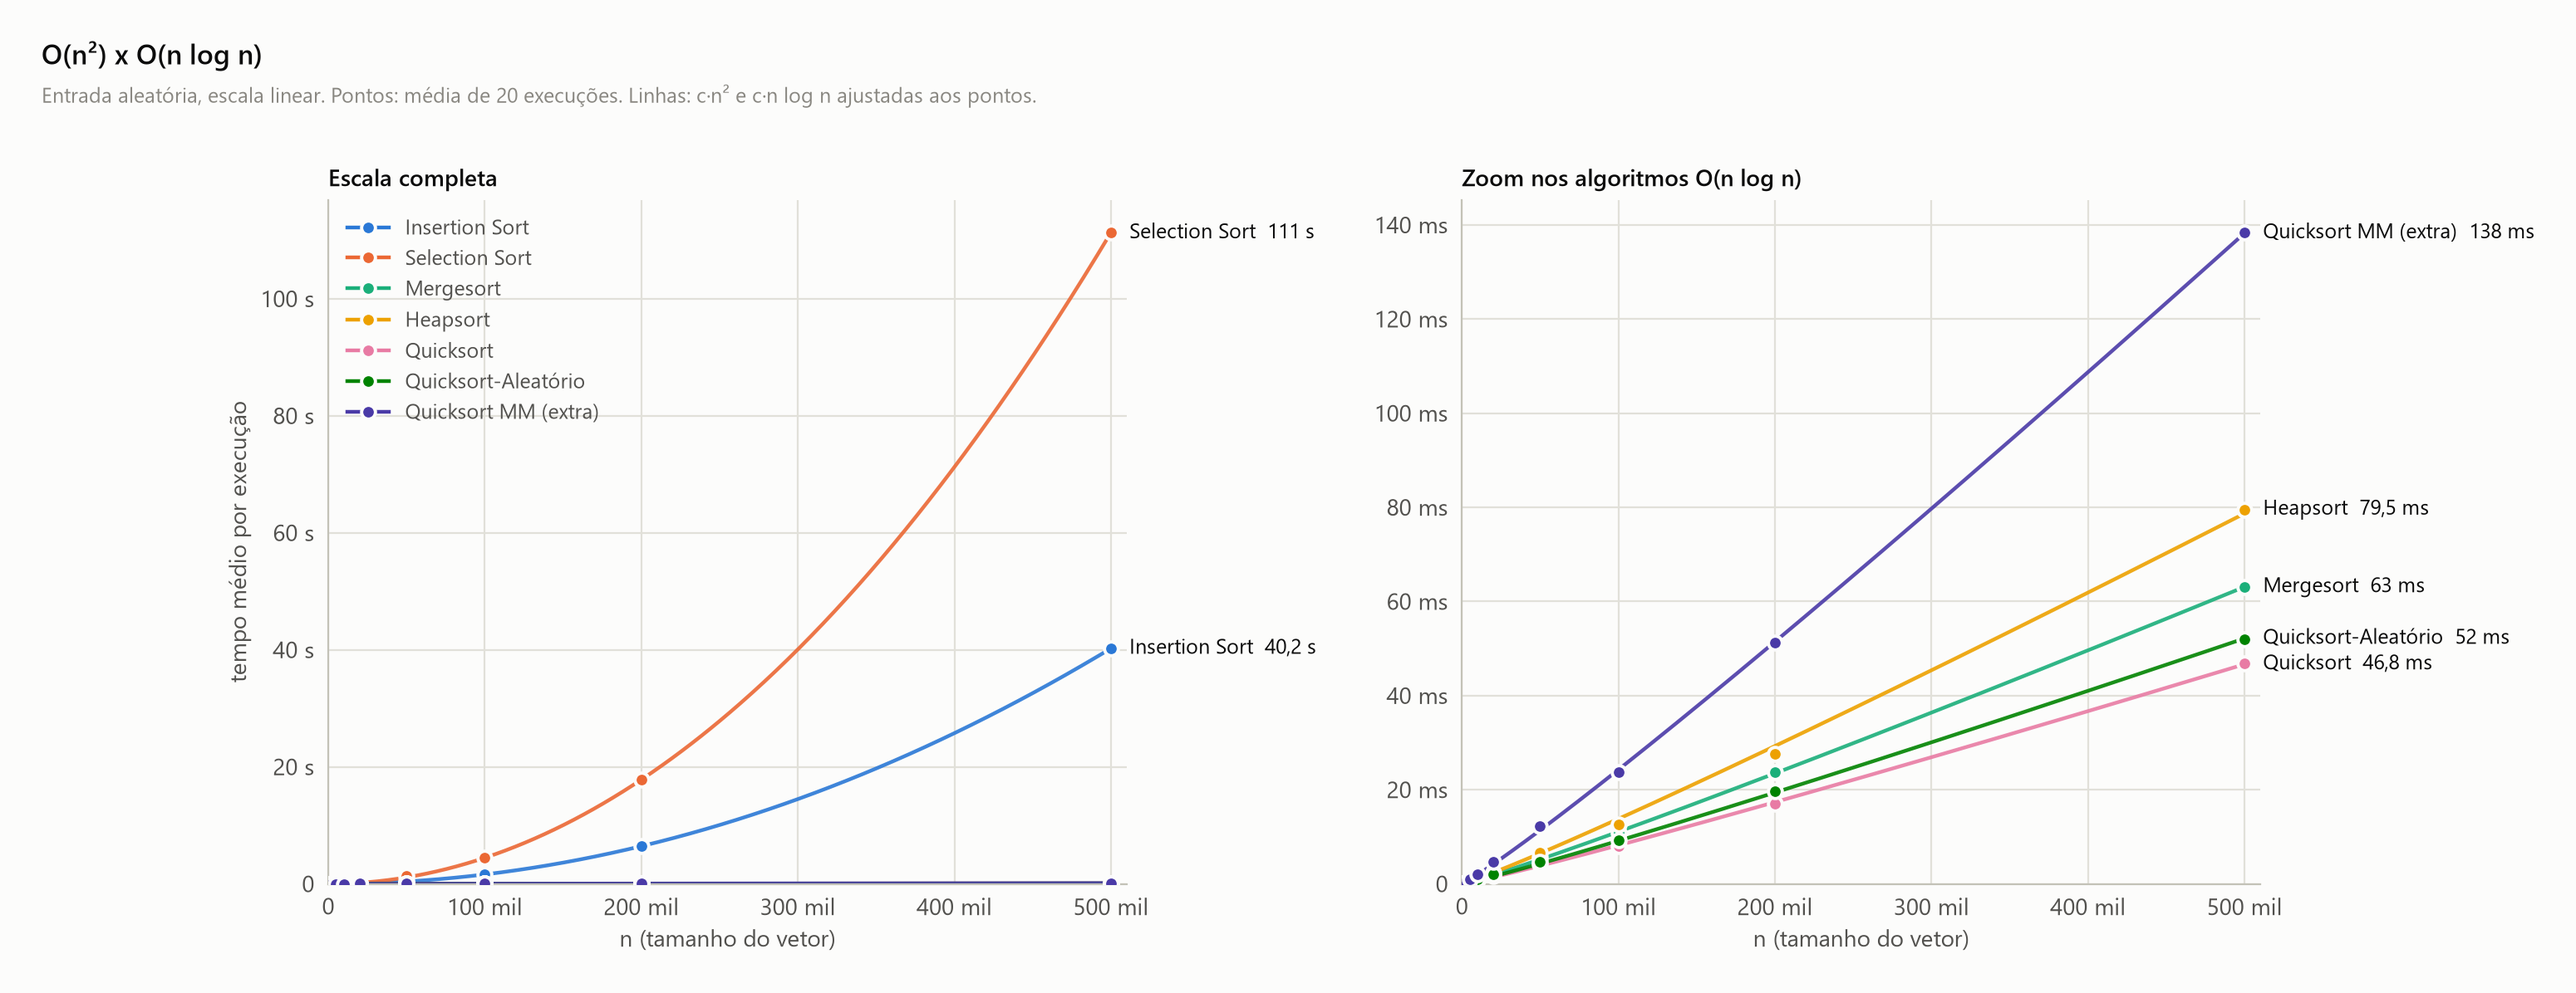
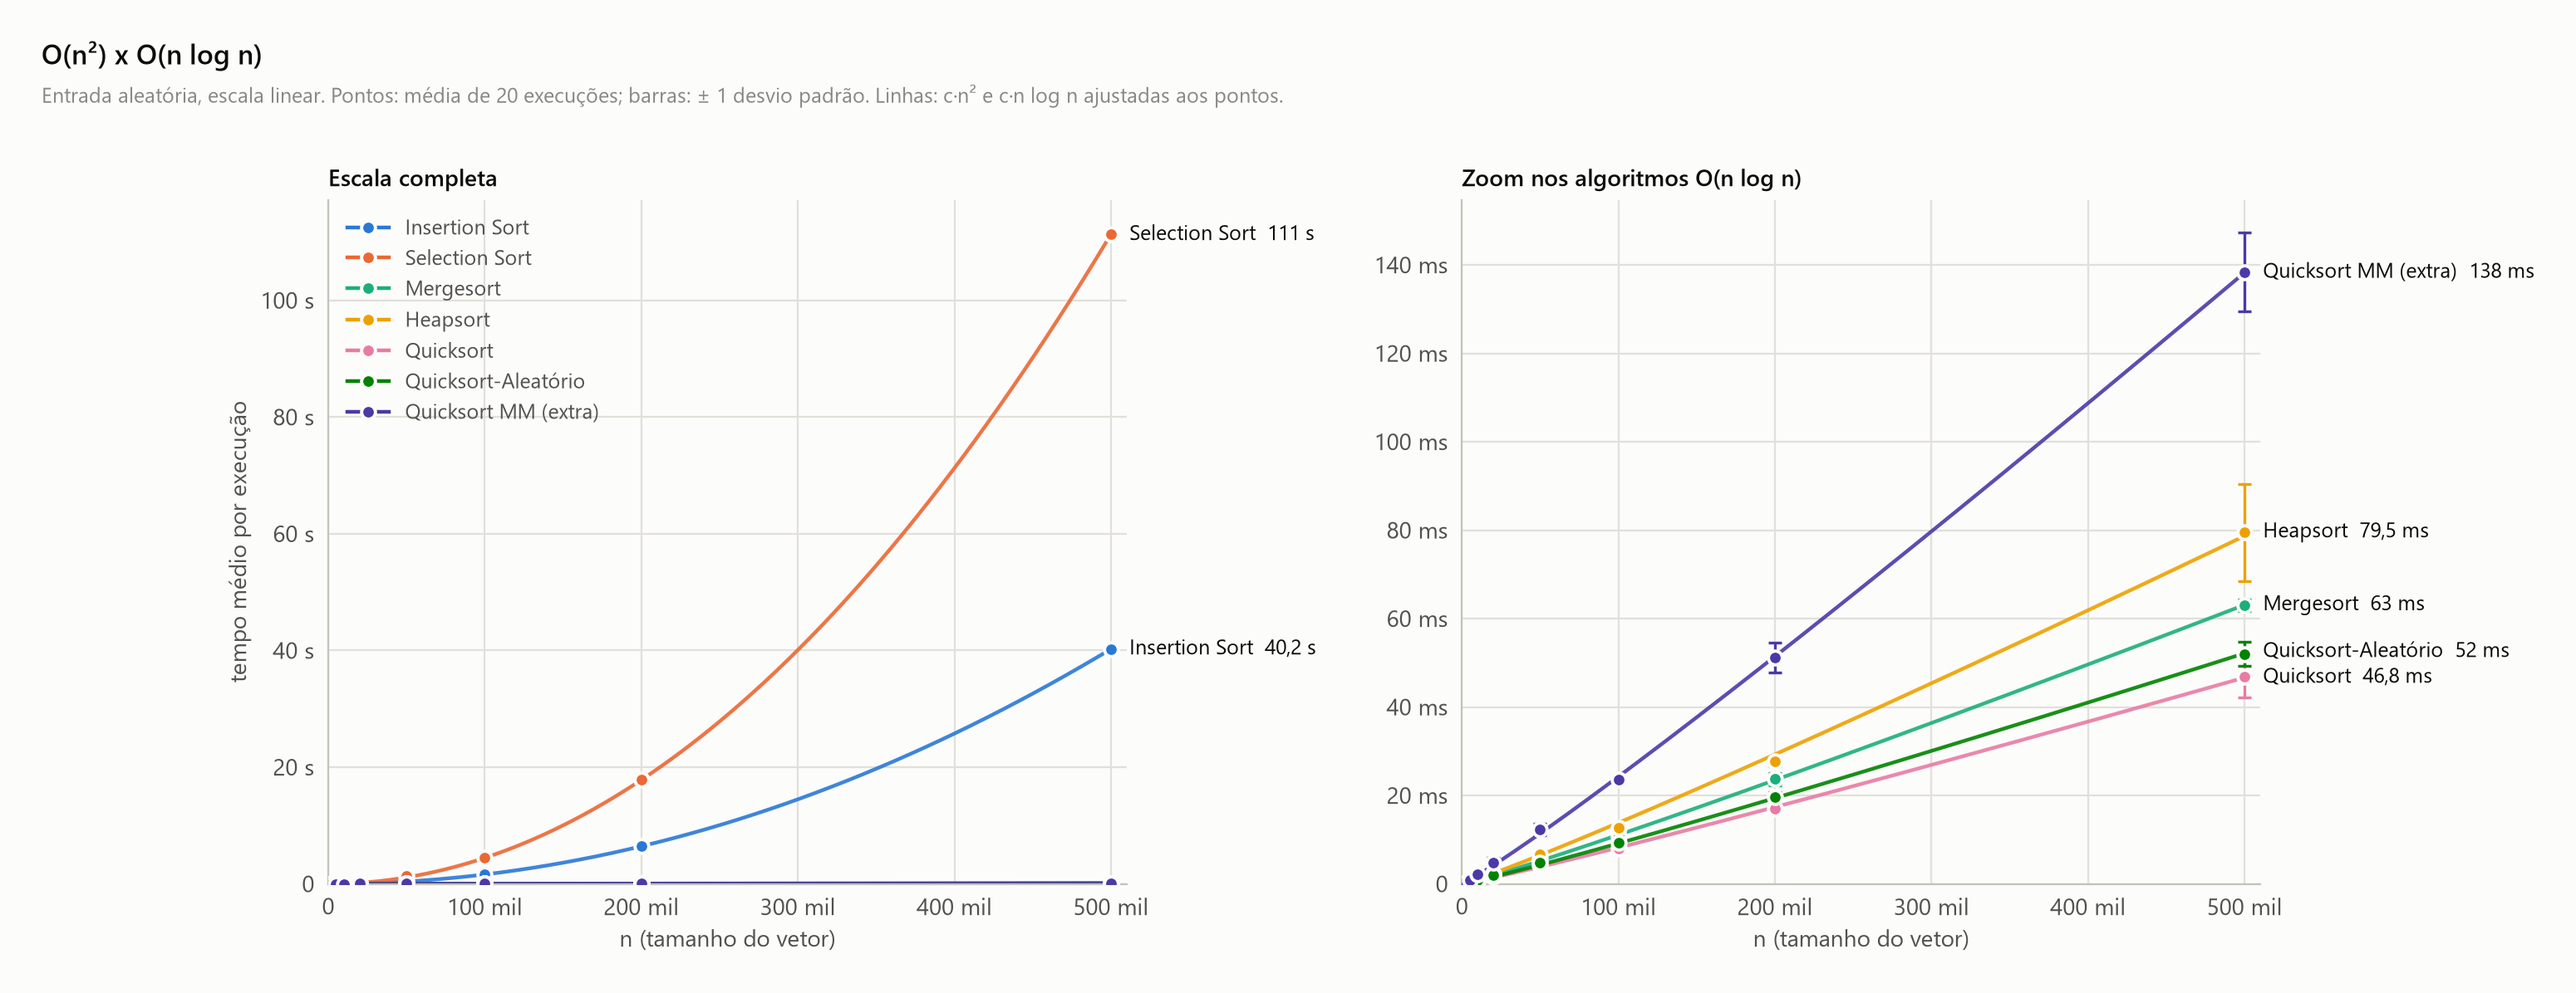
Desvio padrão de volta aos gráficos e novo gráfico de variabilidade
- Barras de ± 1 desvio padrão nos gráficos lineares (1 e 2)
- 08_variabilidade.png: coeficiente de variação por tamanho e boxplot
  das 20 execuções com n = 1 milhão
- README: lista e metodologia atualizadas

diff --git a/analise/analise.py b/analise/analise.py
@@ -202,6 +202,9 @@ def pontos_e_curva(ax, d, classe, cor, rotulo, x_max):
     c = np.sum(y * f(x)) / np.sum(f(x) ** 2)
     grade = np.linspace(max(1.0, x_max / 1000), x_max, 400)
     ax.plot(grade, c * f(grade), "-", color=cor, lw=1.6, alpha=0.9, zorder=2)
+    # barras de +-1 desvio padrao
+    ax.errorbar(x, y, yerr=d["std"].to_numpy(), fmt="none", ecolor=cor, elinewidth=1.2,
+                capsize=3, capthick=1.2, zorder=2.5)
     ax.plot(x, y, "o", color=cor, ms=6, mec=SUPERFICIE, mew=1.4, zorder=3)
     return plt.Line2D([], [], color=cor, lw=1.6, marker="o", ms=6, mec=SUPERFICIE,
                       mew=1.4, label=rotulo)
@@ -277,8 +280,8 @@ rotulos_finais(ax, itens)
 rotulos_finais(az, itens_z)
 ax.legend(handles=alcas, loc="upper left", fontsize=9)
 titulo(fig, "O(n²) x O(n log n)",
-       f"Entrada aleatória, escala linear. Pontos: média de {REP_T} execuções. "
-       "Linhas: c·n² e c·n log n ajustadas aos pontos.")
+       f"Entrada aleatória, escala linear. Pontos: média de {REP_T} execuções; "
+       "barras: ± 1 desvio padrão. Linhas: c·n² e c·n log n ajustadas aos pontos.")
 fig.subplots_adjust(top=0.82, wspace=0.42)
 salvar(fig, "01_n2_vs_nlogn.png")
 
@@ -301,8 +304,9 @@ ax.set_ylabel("tempo médio por execução")
 rotulos_finais(ax, itens)
 ax.legend(handles=alcas, loc="upper left", fontsize=9)
 titulo(fig, "Algoritmos O(n log n)",
-       f"Entrada aleatória, escala linear. Pontos: média de {REP_T} execuções. "
-       "Linhas: c·n log n ajustada aos pontos (quase reta: log n cresce devagar).")
+       f"Entrada aleatória, escala linear. Pontos: média de {REP_T} execuções; "
+       "barras: ± 1 desvio padrão. Linhas: c·n log n ajustada (quase reta: log n "
+       "cresce devagar).")
 fig.subplots_adjust(top=0.84)
 salvar(fig, "02_algoritmos_nlogn.png")
 
@@ -464,6 +468,66 @@ titulo(fig, "Quicksort: o custo da garantia de pior caso",
        "na entrada ordenada (caso O(n²)).")
 fig.subplots_adjust(top=0.82, wspace=0.5)
 salvar(fig, "07_quicksort_garantia.png")
+
+# ============ 8c. Grafico 8: variabilidade das medicoes ============
+# Esquerda: coeficiente de variacao (desvio / media) por tamanho.
+# Direita: distribuicao das execucoes individuais (boxplot) com n fixo.
+N_BOX = 1000000 if N_MAX >= 1000000 else N_MAX
+fig, (ae, ad) = plt.subplots(1, 2, figsize=(15, 5.8), dpi=DPI,
+                             gridspec_kw={"width_ratios": [1.15, 1]})
+# CV de todas as configuracoes (algoritmo x entrada) de cada tamanho
+cv = rt.groupby("n")["cv_%"]
+x = np.array(sorted(rt["n"].unique()), dtype=float)
+q1, med, q3 = (cv.quantile(0.25).to_numpy(), cv.median().to_numpy(),
+               cv.quantile(0.75).to_numpy())
+cor_cv = COR_ALG["insertion_sort"]
+ae.fill_between(x, q1, q3, color=cor_cv, alpha=0.15, lw=0)
+linha(ae, x, med, cor_cv)
+eixo_n_log(ae)
+estilo(ae)
+ae.set_ylim(bottom=0)
+ae.yaxis.set_major_formatter(mticker.FuncFormatter(lambda v, _p: f"{v:g}%"))
+ae.set_xlabel("n")
+ae.set_ylabel("coeficiente de variação (desvio / média)")
+ae.set_title("Execuções curtas variam mais", loc="left", fontsize=10, fontfamily=SEMI)
+ae.text(0.98, 0.95, "linha: mediana de todas as configurações\nfaixa: 1º a 3º quartil",
+        transform=ae.transAxes, ha="right", va="top", fontsize=8.5, color=TINTA_FRACA)
+
+# desvio de cada execucao em relacao a mediana da sua configuracao, em %
+amostras = []
+for a in RAPIDOS:
+    t = tempos[(tempos.algoritmo == a) & (tempos.entrada == "aleatorio")
+               & (tempos.n == N_BOX)]["tempo_s"].to_numpy()
+    amostras.append(100 * (t / np.median(t) - 1))
+pos = np.arange(len(RAPIDOS))[::-1]
+caixas = ad.boxplot(amostras, positions=pos, vert=False, widths=0.5,
+                    patch_artist=True, showfliers=True,
+                    medianprops=dict(color=TINTA, lw=1.5),
+                    whiskerprops=dict(color=TINTA_FRACA, lw=1),
+                    capprops=dict(color=TINTA_FRACA, lw=1),
+                    flierprops=dict(marker="o", ms=4, mfc=TINTA_FRACA, mec="none"))
+for caixa, alg in zip(caixas["boxes"], RAPIDOS):
+    caixa.set(facecolor=COR_ALG[alg], alpha=0.35, edgecolor=COR_ALG[alg], lw=1.2)
+for p_, amostra in zip(pos, amostras):
+    ad.plot(amostra, np.full(len(amostra), p_), "|", color=TINTA_2, ms=8, alpha=0.5,
+            zorder=1)
+ad.set_yticks(pos, [NOME_ALG[a] for a in RAPIDOS])
+ad.axvline(0, color=EIXO, lw=1, zorder=0)
+ad.xaxis.set_major_formatter(mticker.FuncFormatter(
+    lambda v, _p: virgula(f"{v:+g}%") if v else "0"))
+estilo(ad)
+ad.grid(False, axis="y")
+lim = max(np.abs(np.concatenate(amostras)).max() * 1.15, 2)
+ad.set_xlim(-lim, lim)
+ad.set_xlabel("diferença de cada execução para a mediana")
+ad.set_title(f"As {REP_T} execuções com n = {fmt_n(N_BOX)}", loc="left", fontsize=10,
+             fontfamily=SEMI)
+titulo(fig, "Variabilidade das medições",
+       "Esquerda: todas as entradas. Direita: entrada aleatória; caixa: quartis; "
+       "traço preto: mediana; hastes: até 1,5 × intervalo interquartil; traços: "
+       "cada execução.")
+fig.subplots_adjust(top=0.82, wspace=0.55)
+salvar(fig, "08_variabilidade.png")
 
 # ============ 9. Grafico 6: contagens normalizadas x constantes teoricas ============
 fig, eixos = plt.subplots(2, 2, figsize=(14, 8.4), dpi=DPI, sharex="col")

diff --git a/README.md b/README.md
@@ -54,6 +54,7 @@ relatorio/  slides/  material de entrega
 | `05_quicksort_pivo.png` | As três escolhas de pivô nas 4 entradas, com n fixo |
 | `06_operacoes_normalizadas.png` | Comparações e movimentos divididos pela função de crescimento |
 | `07_quicksort_garantia.png` | Custo da mediana das medianas no caso típico × proteção no pior caso |
+| `08_variabilidade.png` | Coeficiente de variação por tamanho e distribuição das execuções (boxplot) |
 
 ## Como reproduzir
 
@@ -94,7 +95,7 @@ UTF-16, e o pandas não lê o arquivo corretamente.
 - Tempo medido com relógio monotônico de alta resolução (`clock_gettime(CLOCK_MONOTONIC)` no Linux, `QueryPerformanceCounter` no Windows). Comparações e movimentos são contados numa compilação separada (`-DCONTAR`), para não interferir no tempo.
 - Tamanhos: 13 valores de 1.000 a 10.000.000 (1, 2 e 5 × 10ᵏ). Os casos O(n²) (Selection; Insertion fora do vetor ordenado; Quicksort clássico com vetor ordenado ou inverso) vão até n = 500.000. Estendê-los até 1.000.000 multiplicaria o tempo de cada execução por 4: o Selection passaria de 111 s para cerca de 7,5 min por execução, e só ele consumiria mais de 10 horas.
 - Entradas: aleatória (caso médio), ordenada, inversa e quase ordenada (5% de trocas aleatórias). As entradas ordenada e inversa produzem o melhor e o pior caso de cada algoritmo.
-- Repetições por configuração: 20 para o tempo e 5 para a contagem de operações, que quase não varia entre repetições. Estatísticas: média, desvio padrão, coeficiente de variação e IC 95%.
+- Repetições por configuração: 20 para o tempo e 5 para a contagem de operações, que quase não varia entre repetições. Estatísticas: média, desvio padrão, coeficiente de variação e IC 95%. Os gráficos lineares mostram barras de ± 1 desvio padrão; o gráfico 8 mostra a variabilidade: o coeficiente de variação mediano cai de cerca de 10% com n = 1.000 para menos de 1% com n = 10.000.000, porque execuções curtas sofrem proporcionalmente mais com variações de frequência da CPU, estado do cache e interrupções do sistema.
 - Coleta feita com o notebook ligado na tomada e sem outros programas abertos. Em 2,4% das configurações alguma execução levou mais que o dobro da mediana (no máximo 2,6 vezes), o que indica pouca interferência externa.
 - Toda execução verifica se o vetor resultante está ordenado.
 - A contagem de operações é determinística e independente da máquina; o tempo foi medido em uma única máquina (abaixo).
